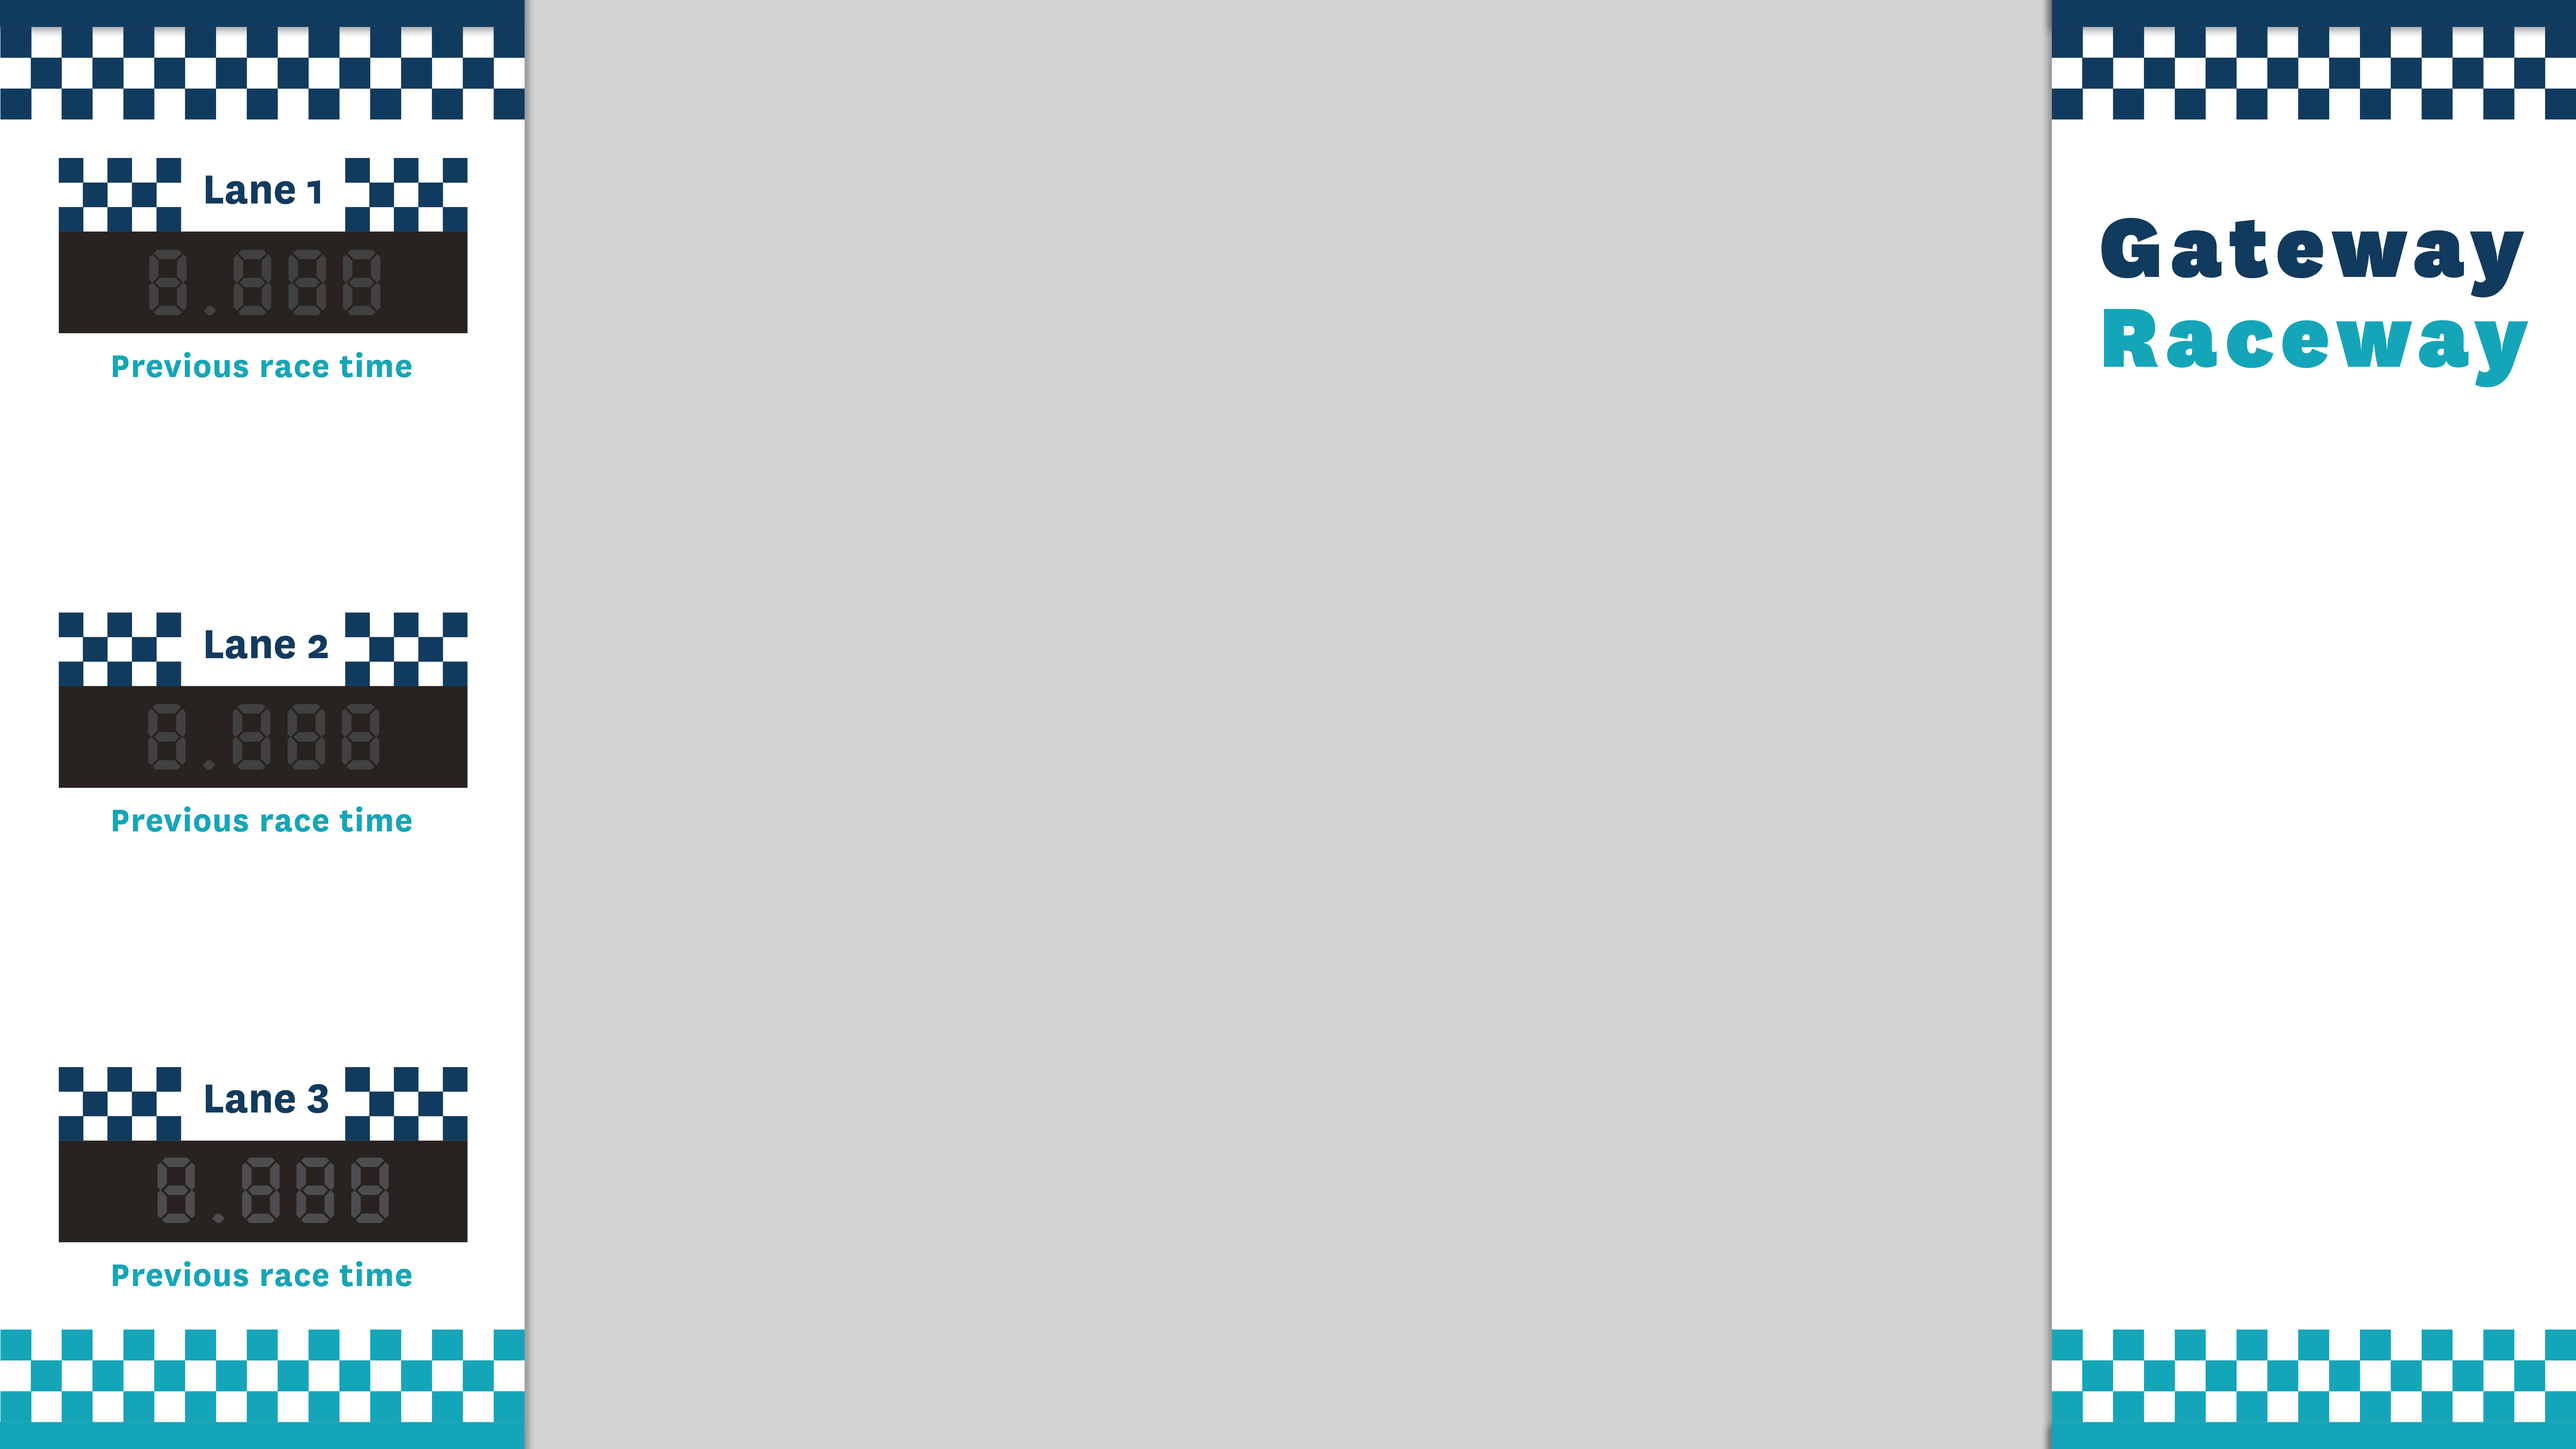
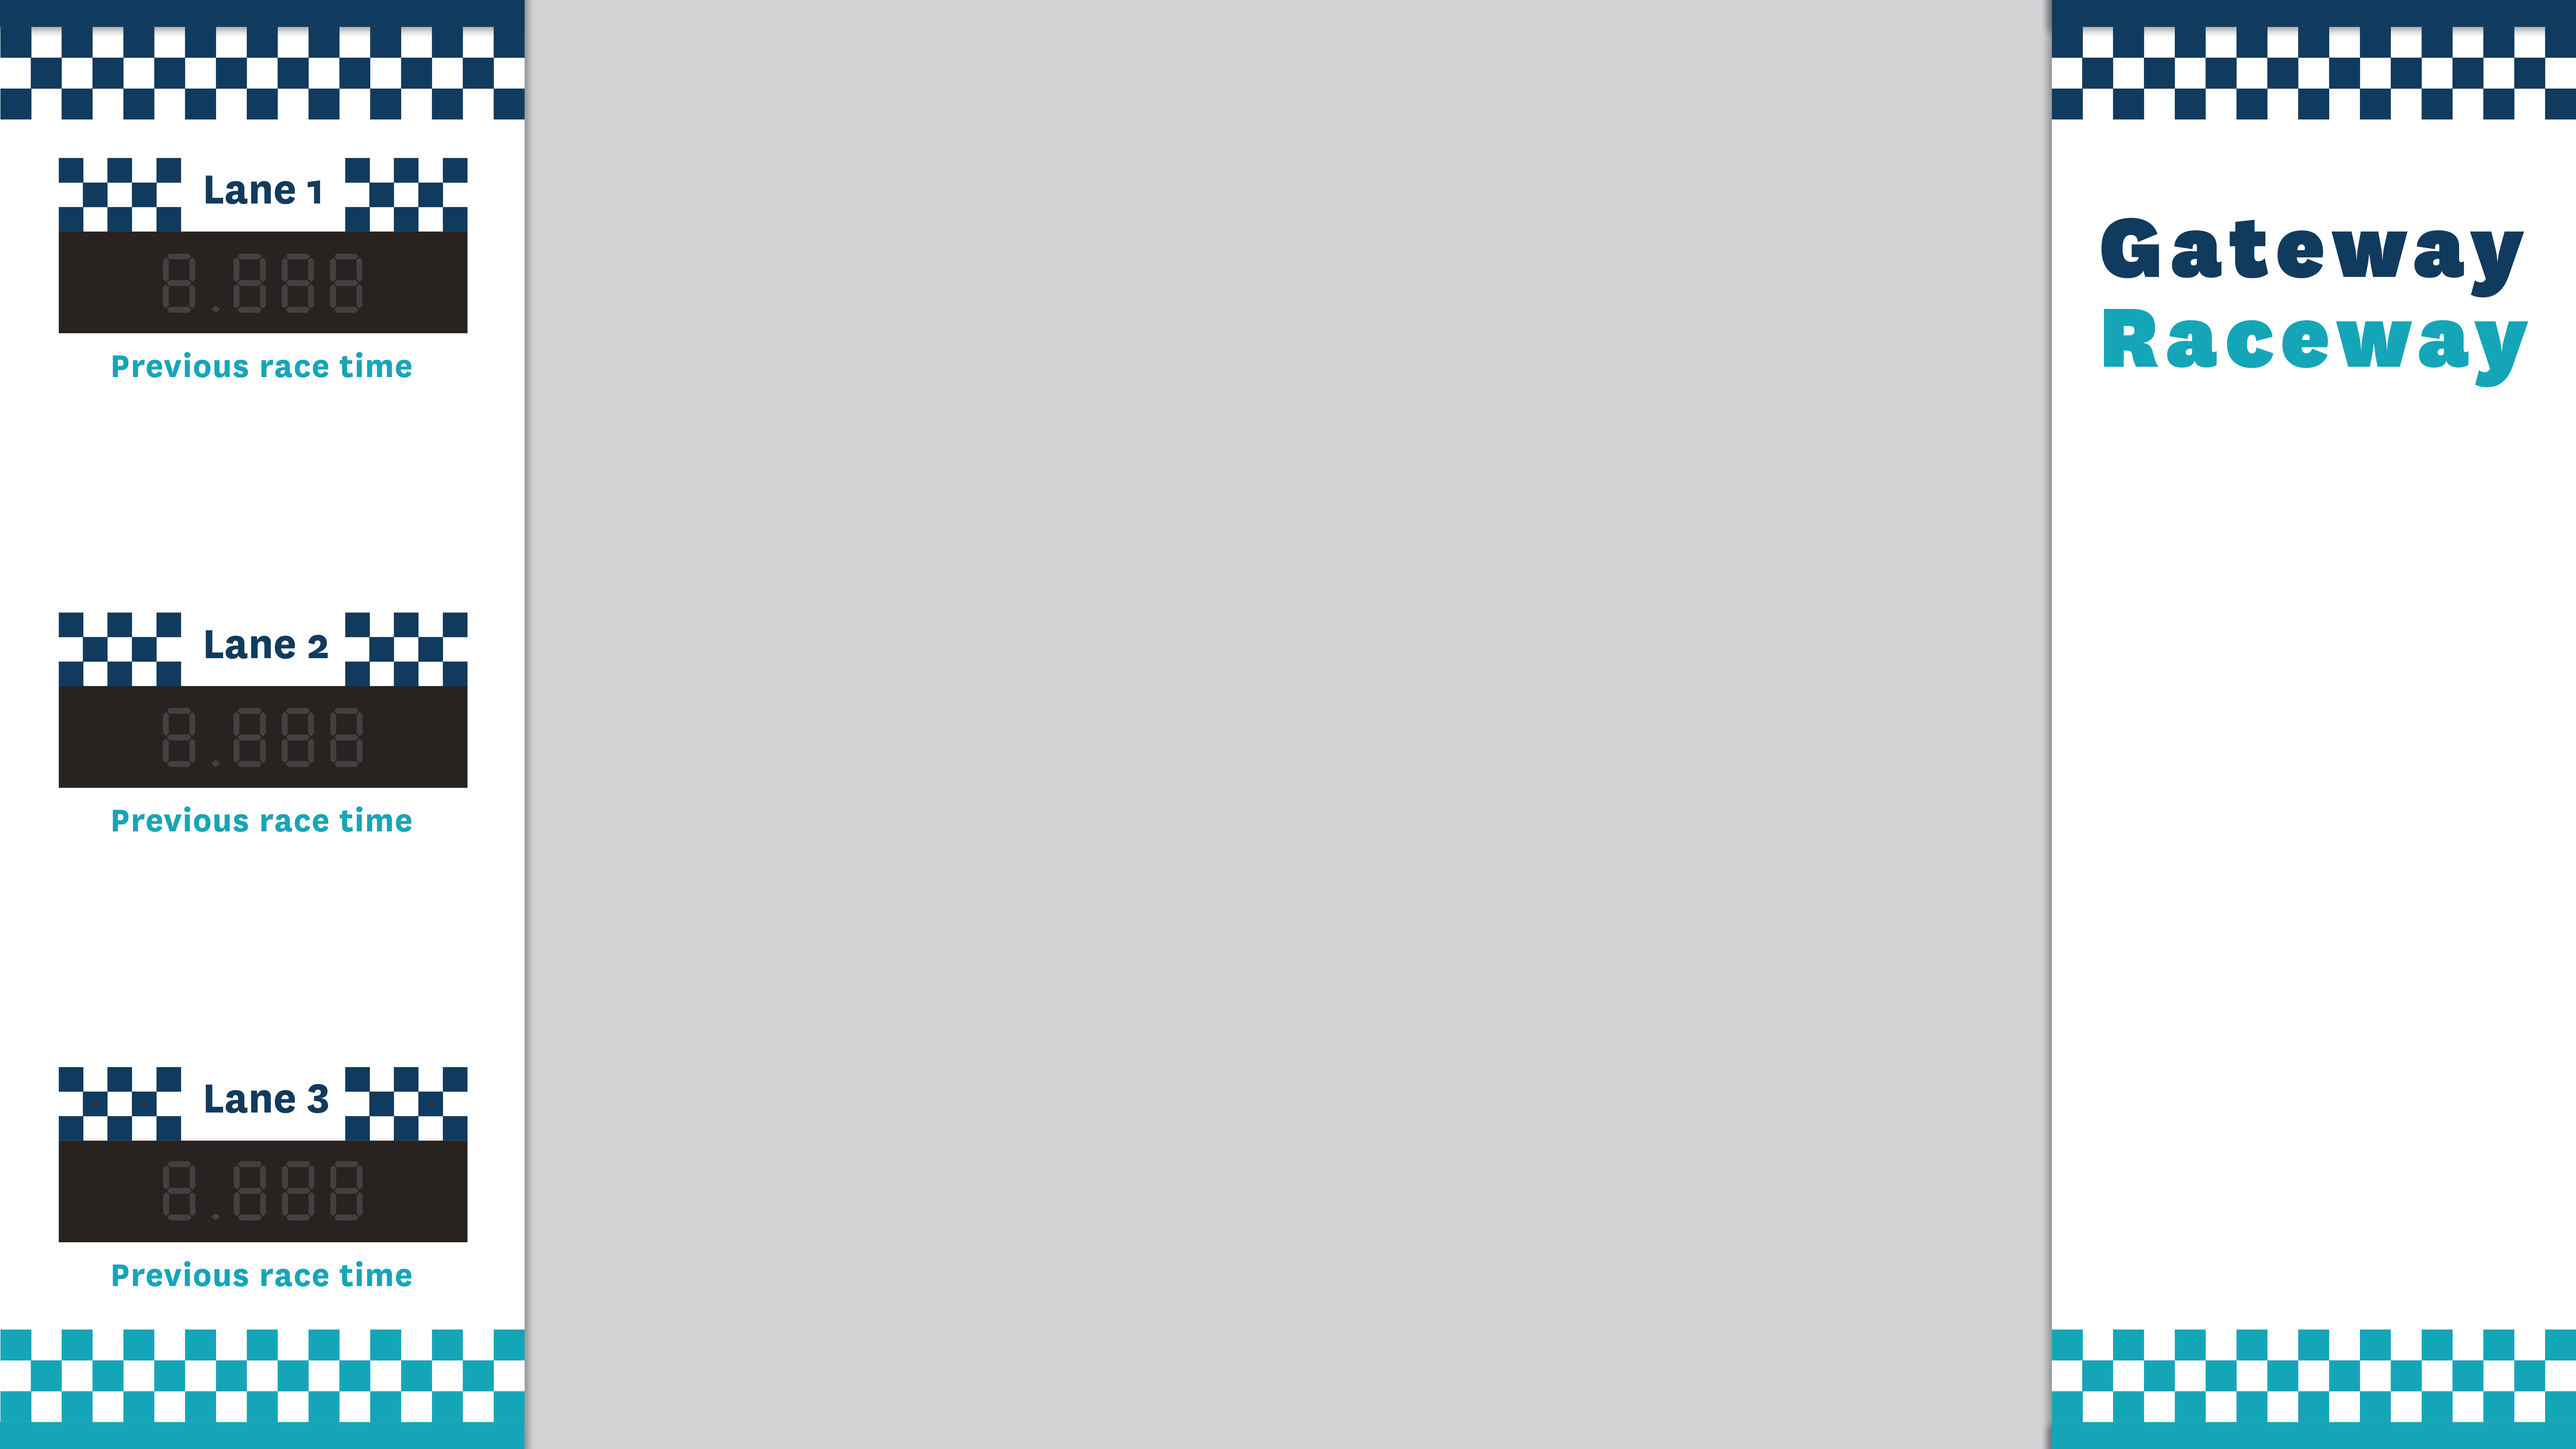
refactor: Swapped out update lane images

Changed region(s): [[0.0312, 0.1556, 0.1562, 0.2178], [0.0312, 0.4667, 0.1562, 0.5289], [0.0625, 0.7778, 0.1562, 0.84]]

diff --git a/src/components/Lane/index.js b/src/components/Lane/index.js
@@ -2,11 +2,11 @@ import PropTypes from 'prop-types';
 import React, { useEffect, useState } from 'react';
 
 import Timer from '@components/Timer';
-import Lane1Active from '@images/409.MA.3 Lane1 car_2020_RG.png';
-import Lane2Active from '@images/409.MA.4 Lane2 car_2020_RG.png';
-import Lane3Active from '@images/409.MA.5 Lane3 car_2020_RG.png';
-import Lane1Inactive from '@images/409.MA.6 Lane1 withoutcar_2020_RG.png';
-import Lane2Inactive from '@images/409.MA.7 Lane2 withoutcar_2020_RG.png';
+import Lane1Active from '@images/409.MA.3 Lane1 withcar_2020_RG.png';
+import Lane2Active from '@images/409.MA.4 Lane2 withcar_2020_RG.png';
+import Lane3Active from '@images/409.MA.5  Lane3 withcar_2020_RG.png';
+import Lane1Inactive from '@images/409.MA.6 Lane1 withoutcar_2020_RG4.png';
+import Lane2Inactive from '@images/409.MA.7 Lane7 withoutcar_2020_RG5.png';
 import Lane3Inactive from '@images/409.MA.8 Lane3 withoutcar_2020_RG.png';
 
 import './index.scss';
